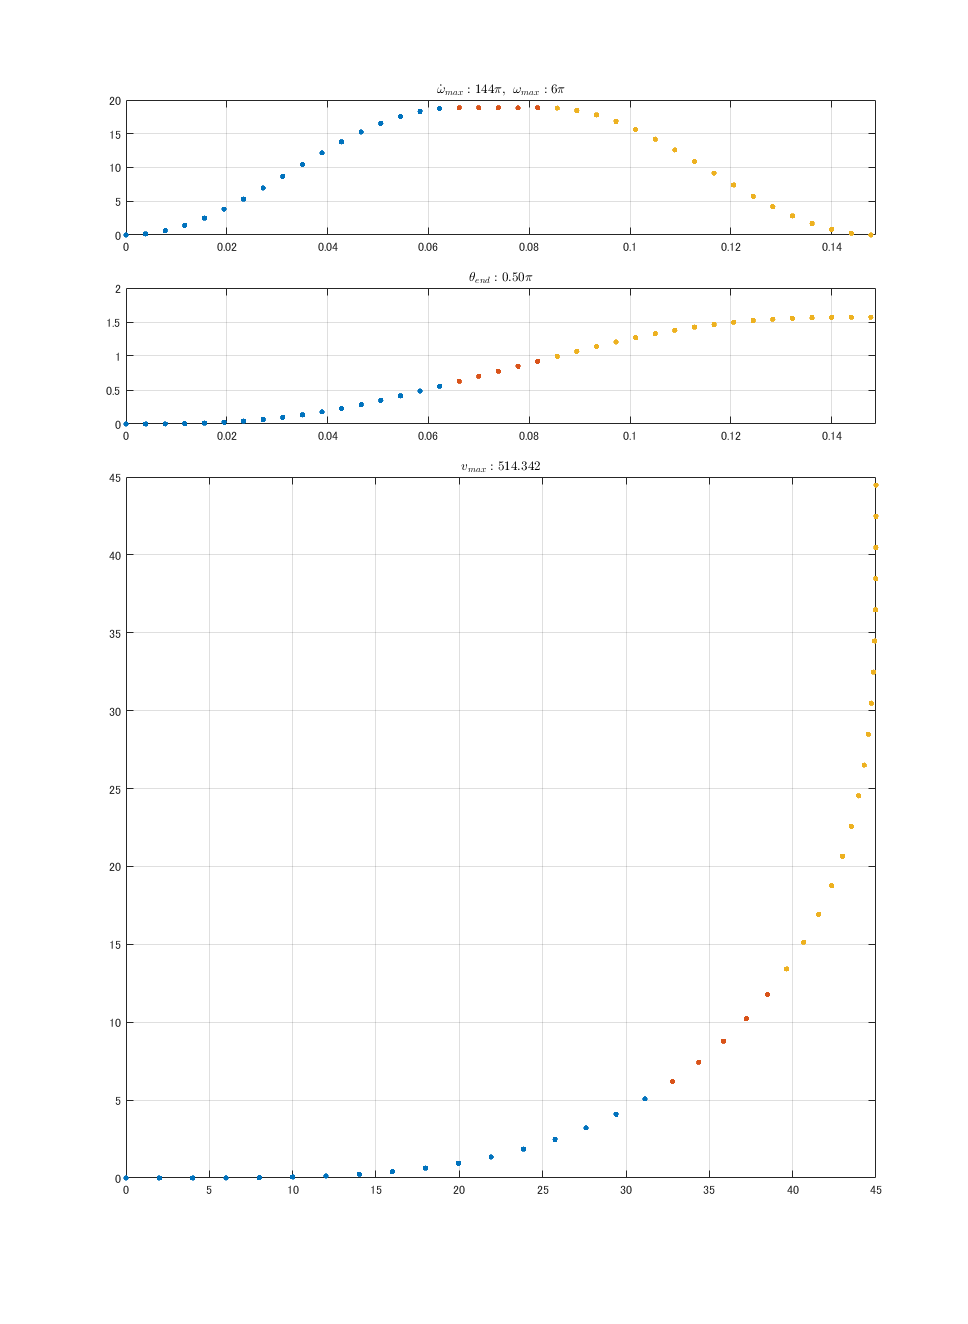
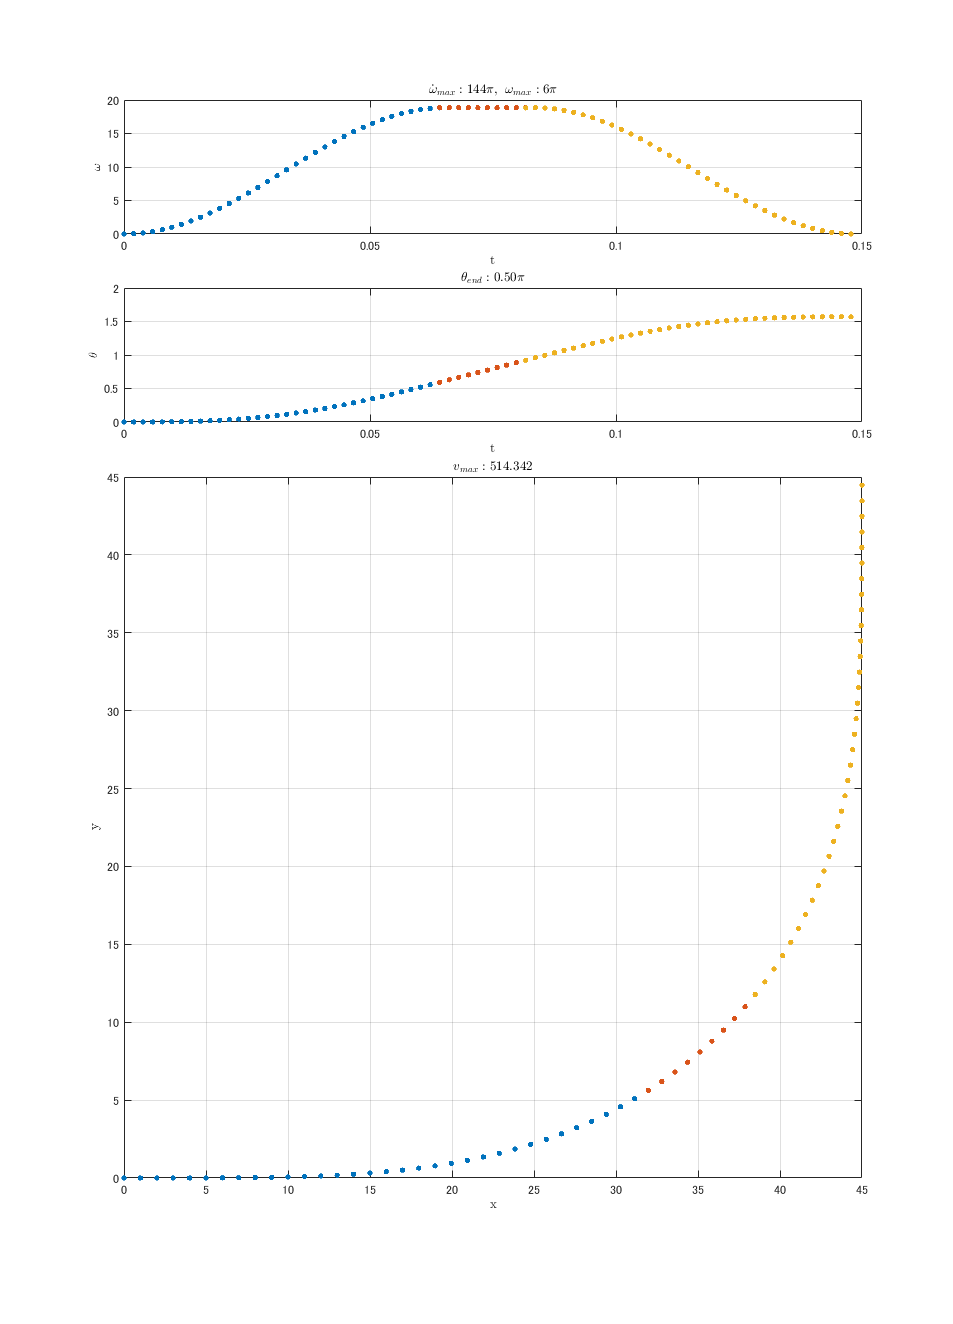
ode45で軌道生成

diff --git a/matlab/fast_ode.m b/matlab/fast_ode.m
@@ -1,0 +1,123 @@
+clear
+segment = 90;
+%{
+% 30
+pos_end = [segment/2*(sqrt(3)+1)/2, segment/2*(sqrt(3)-1)/2, pi/6];
+%}
+%%{
+% 60
+pos_end = [segment*2/3, segment/2, pi/3];
+%}
+%{
+% 90
+pos_end = [segment/2, segment/2, pi/2];
+%}
+%{
+% 120
+pos_end = [segment/2, segment/2*sqrt(3), pi*2/3];
+%}
+%{
+% 150
+pos_end = [10, segment, pi/6*5];
+%}
+%{
+% 180
+pos_end = [0, segment, pi];
+%}
+
+omega_dot = 144 * pi;
+omega_max = 6 * pi;
+angle = pos_end(3);
+dx = 1;
+
+T = omega_max / omega_dot * pi;
+[t, theta] = ode45(@(t, theta) omega_max * sin(pi*t/T)^2, [0 T], 0);
+
+if angle < theta(end)
+    theta_gain = sqrt(angle / theta(end));
+    T = T * theta_gain;
+    [t, x] = ode45(@(t, x) cos(theta_gain * ((omega_max*t)/2 - (T*omega_max*sin((2*pi*t)/T))/(4*pi))), [0 T], 0);
+    [t, y] = ode45(@(t, x) sin(theta_gain * ((omega_max*t)/2 - (T*omega_max*sin((2*pi*t)/T))/(4*pi))), [0 T], 0);
+    syms v;
+    v = double(solve((pos_end(2)-v*y(end))*cos(angle)==(pos_end(1)-v*x(end))*sin(angle), v));
+    dt = dx/v;
+    x_end = x(end)*v; y_end = y(end)*v;
+    omega = omega_max * sin(pi*[0:dt:T]/T).^2;
+    subplot(6, 1, 1); hold off;
+    plot(0:dt:T, omega, '.', 'MarkerSize', 12); grid on;
+    [t, theta] = ode45(@(t, theta) theta_gain * omega_max * sin(pi*t/T)^2, [0:dt:T], 0);
+    subplot(6, 1, 2); hold off;
+    plot(t, theta, '.', 'MarkerSize', 12); grid on;
+    [t, x] = ode45(@(t, x) v * cos(theta_gain * ((omega_max*t)/2 - (T*omega_max*sin((2*pi*t)/T))/(4*pi))), [0:dt:T], 0);
+    [t, y] = ode45(@(t, y) v * sin(theta_gain * ((omega_max*t)/2 - (T*omega_max*sin((2*pi*t)/T))/(4*pi))), [0:dt:T], 0);
+    subplot(6, 1, [3 6]); hold off;
+    plot(x, y, '.', 'MarkerSize', 12); grid on;
+    
+    pos = [x, y, theta];
+    pos = [pos; x_end, y_end, angle];
+else
+    T1 = T / 2;
+    T2 = T1 + (angle - theta(end)) / omega_max;
+    T3 = T2 + T / 2;
+    [t, x1] = ode45(@(t, x1) cos((omega_max*t)/2 - (T*omega_max*sin((2*pi*t)/T))/(4*pi)), [0 T/2], 0);
+    [t, x2] = ode45(@(t, x2) cos((omega_max*T/2)/2 - (T*omega_max*sin((2*pi*T/2)/T))/(4*pi) + omega_max*(t-T1)), [T1 T2], x1(end));
+    [t, x3] = ode45(@(t, x3) cos(omega_max*(T2-T1) + (omega_max*(t-T2+T1))/2 - (T*omega_max*sin((2*pi*(t-T2+T1))/T))/(4*pi)), [T2 T3], x2(end));
+    [t, y1] = ode45(@(t, y1) sin((omega_max*t)/2 - (T*omega_max*sin((2*pi*t)/T))/(4*pi)), [0 T/2], 0);
+    [t, y2] = ode45(@(t, y2) sin((omega_max*T/2)/2 - (T*omega_max*sin((2*pi*T/2)/T))/(4*pi) + omega_max*(t-T1)), [T1 T2], y1(end));
+    [t, y3] = ode45(@(t, y3) sin(omega_max*(T2-T1) + (omega_max*(t-T2+T1))/2 - (T*omega_max*sin((2*pi*(t-T2+T1))/T))/(4*pi)), [T2 T3], y2(end));
+    syms v;
+    v = double(solve((pos_end(2)-v*y3(end))*cos(angle)==(pos_end(1)-v*x3(end))*sin(angle), v));
+    dt = dx/v;
+    t1 = 0:dt:T1;
+    t2 = t1(end):dt:T2;
+    t3 = t2(end):dt:T3;
+    x1_end = x1(end)*v; x2_end = x2(end)*v; x3_end = x3(end)*v;
+    y1_end = x1(end)*v; y2_end = y2(end)*v; y3_end = y3(end)*v;
+    
+    subplot(6, 1, 1); hold off;
+    plot(t1, omega_max * sin(pi*t1/T).^2, '.', 'MarkerSize', 12); grid on; hold on;
+    plot(t2, omega_max+t2*0, '.', 'MarkerSize', 12); grid on; hold on;
+    plot(t3, omega_max * sin(pi*(t3-T2+T1)/T).^2, '.', 'MarkerSize', 12); grid on; hold on;
+
+    subplot(6, 1, 2); hold off;
+    theta1 = (omega_max*t1)/2 - (T*omega_max*sin((2*pi*t1)/T))/(4*pi);
+    theta2 = (omega_max*T/2)/2 - (T*omega_max*sin((2*pi*T/2)/T))/(4*pi) + omega_max*(t2-T1);
+    theta3 = omega_max*(T2-T1) + (omega_max*(t3-T2+T1))/2 - (T*omega_max*sin((2*pi*(t3-T2+T1))/T))/(4*pi);
+    plot(t1, theta1, '.', 'MarkerSize', 12); grid on; hold on;
+    plot(t2, theta2, '.', 'MarkerSize', 12); grid on; hold on;
+    plot(t3, theta3, '.', 'MarkerSize', 12); grid on; hold on;
+
+    [t, x1] = ode45(@(t, x1) v*cos((omega_max*t)/2 - (T*omega_max*sin((2*pi*t)/T))/(4*pi)), t1, 0);
+    [t, x2] = ode45(@(t, x2) v*cos((omega_max*T/2)/2 - (T*omega_max*sin((2*pi*T/2)/T))/(4*pi) + omega_max*(t-T1)), t2, x1(end));
+    [t, x3] = ode45(@(t, x3) v*cos(omega_max*(T2-T1) + (omega_max*(t-T2+T1))/2 - (T*omega_max*sin((2*pi*(t-T2+T1))/T))/(4*pi)), t3, x2(end));
+    [t, y1] = ode45(@(t, y1) v*sin((omega_max*t)/2 - (T*omega_max*sin((2*pi*t)/T))/(4*pi)), t1, 0);
+    [t, y2] = ode45(@(t, y2) v*sin((omega_max*T/2)/2 - (T*omega_max*sin((2*pi*T/2)/T))/(4*pi) + omega_max*(t-T1)), t2, y1(end));
+    [t, y3] = ode45(@(t, y3) v*sin(omega_max*(T2-T1) + (omega_max*(t-T2+T1))/2 - (T*omega_max*sin((2*pi*(t-T2+T1))/T))/(4*pi)), t3, y2(end));
+    subplot(6, 1, [3 6]); hold off;
+    plot(x1, y1, '.', 'MarkerSize', 12); hold on; grid on;
+    plot(x2, y2, '.', 'MarkerSize', 12); hold on; grid on;
+    plot(x3, y3, '.', 'MarkerSize', 12); hold on; grid on;
+    
+    pos = [x1, y1, theta1'; x2(2:end), y2(2:end), theta2(2:end)'; x3(2:end), y3(2:end), theta3(2:end)'];
+    pos = [pos; x3_end, y3_end, omega_max*(T2-T1) + (omega_max*(T3-T2+T1))/2 - (T*omega_max*sin((2*pi*(T3-T2+T1))/T))/(4*pi)];
+end
+
+format long;
+dlmwrite('data.csv', pos, 'precision', '%.10f');
+v
+(pos_end(2)-pos(end, 2)) / sin(angle)
+
+subplot(6,1,1);
+title(sprintf('$$ \\dot{\\omega}_{max}: %.0f\\pi,\\ \\omega_{max}: %.0f\\pi $$', omega_dot/pi, omega_max/pi), 'Interpreter','latex', 'FontSize', 12);
+xlabel('t', 'Interpreter','latex', 'FontSize', 12);
+ylabel('\omega', 'FontSize', 12);
+
+subplot(6,1,2);
+title(sprintf('$$ \\theta_{end}: %.2f\\pi $$', angle/pi), 'Interpreter','latex', 'FontSize', 12);
+xlabel('t', 'Interpreter','latex', 'FontSize', 12);
+ylabel('\theta', 'FontSize', 12);
+
+subplot(6,1,[3 6]);
+title(sprintf('$$ v_{max}: %.3f $$', v), 'Interpreter','latex', 'FontSize', 12);
+xlabel('x', 'Interpreter','latex', 'FontSize', 12);
+ylabel('y', 'Interpreter','latex', 'FontSize', 12);

diff --git a/matlab/fast.m b/matlab/fast.m
@@ -1,5 +1,9 @@
-clear
+%clear
 segment = 90;
+%{
+% search 90
+pos_end = [segment/2-20, segment/2-20, pi/2];
+%}
 %{
 % 30
 pos_end = [segment/2*(sqrt(3)+1)/2, segment/2*(sqrt(3)-1)/2, pi/6];
@@ -18,7 +22,7 @@ pos_end = [segment/2, segment/2*sqrt(3), pi*2/3];
 %}
 %%{
 % 150
-pos_end = [0, segment, pi/6*5];
+pos_end = [segment*2/3, segment, pi/6*5];
 %}
 %{
 % 180

diff --git a/matlab/search.m b/matlab/search.m
@@ -19,9 +19,9 @@ pos_end = [45; 45; pi/3];
 %}
 %%{
 % curve150 half (search)
-v_const = 500;
+v_const = 600;
 pos_start = [0; 0; 0];
-pos_end = [0; 90; pi/6*5];
+pos_end = [45; 90; pi/6*5];
 %}
 %{
 % curve half (search)
